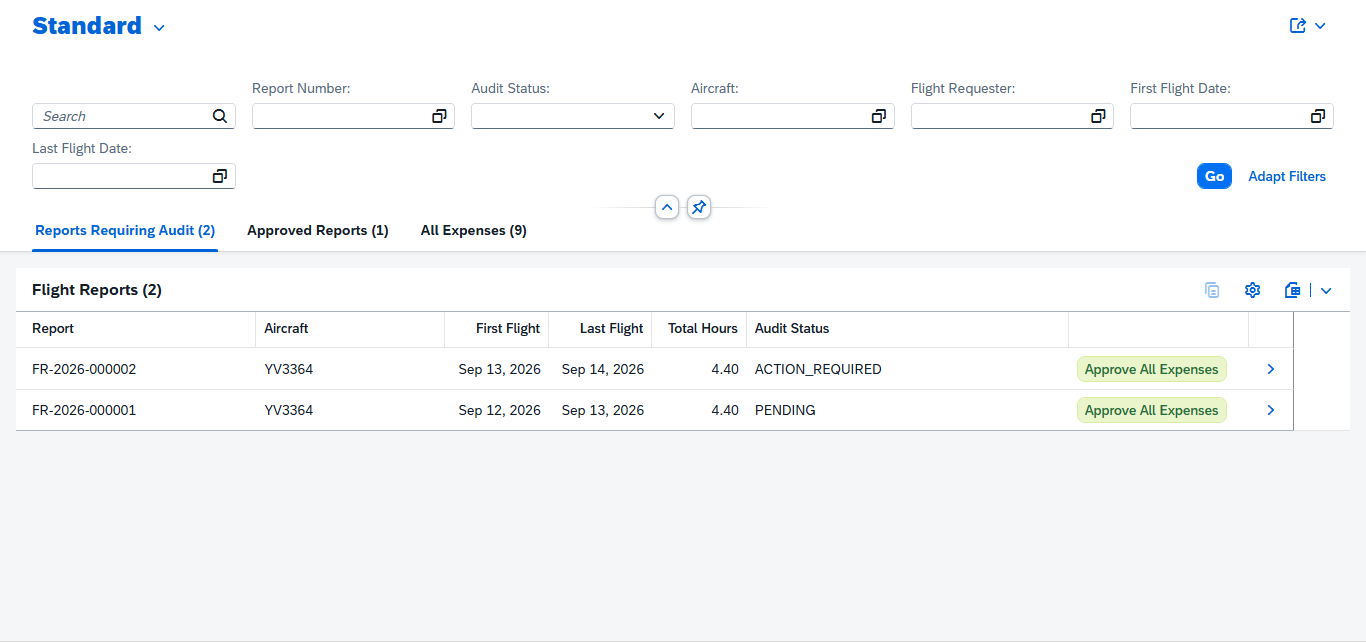
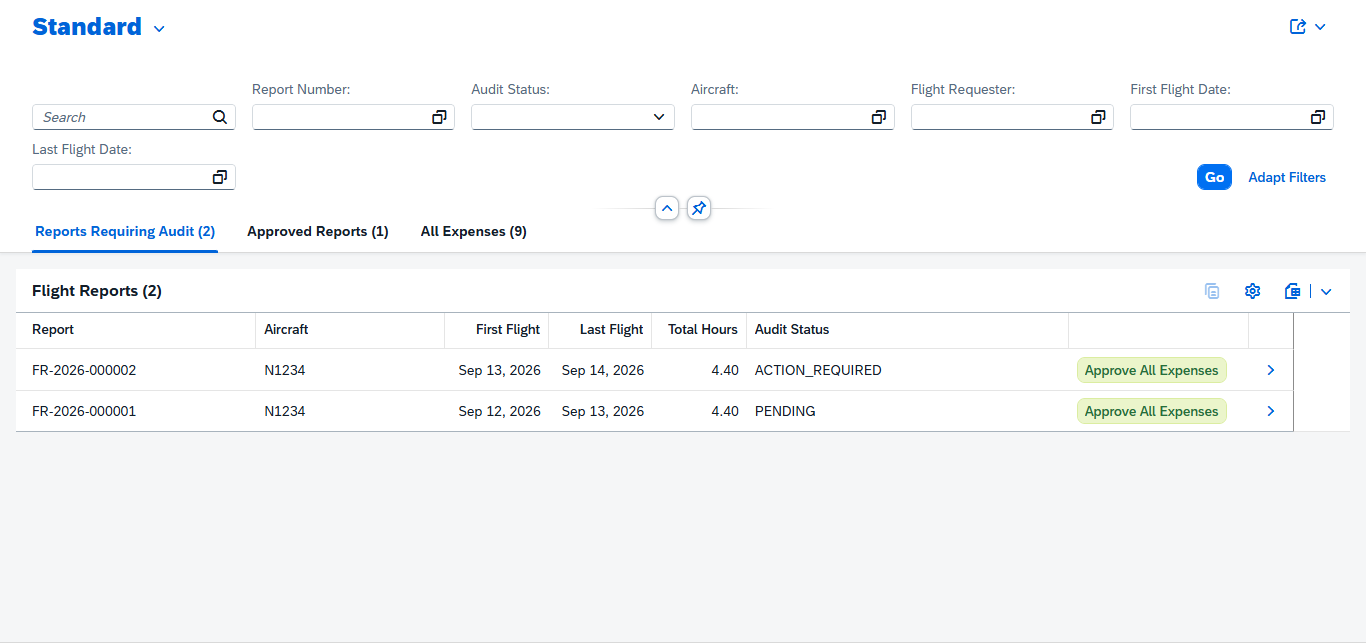
fix: update readme images with realistic synthetic data

diff --git a/test/expense-service/flight-report-lifecycle.test.ts b/test/expense-service/flight-report-lifecycle.test.ts
@@ -10,7 +10,7 @@ describe('ExpenseService flight report lifecycle', () => {
     let response = await POST(`${baseUrl}/FlightReports`, {
       ID: flightReportIDs.report,
       aircraft_ID: masterDataIDs.aircraft,
-      requesterName: 'Julián Sierra (FIBEX)',
+      requesterName: 'Alex Demo (FinFly Demo Operator)',
       status: 'DRAFT',
       notes: 'Automated test report',
     });
@@ -26,13 +26,13 @@ describe('ExpenseService flight report lifecycle', () => {
     response = await GET(`${draftUrl}?$select=displayTitle`);
 
     expect(response.status).to.equal(200);
-    expect(response.data.displayTitle).to.equal('Draft - YV3364');
+    expect(response.data.displayTitle).to.equal('Draft - N1234');
 
     response = await POST(`${draftUrl}/legs`, {
       ID: flightReportIDs.outboundLeg,
       flightDate: '2026-08-12',
-      originAirportCode: 'SVVA',
-      destinationAirportCode: 'SKRG',
+      originAirportCode: 'SVMI',
+      destinationAirportCode: 'SKBO',
       flightHours: 2.3,
     });
 
@@ -42,8 +42,8 @@ describe('ExpenseService flight report lifecycle', () => {
     response = await POST(`${draftUrl}/legs`, {
       ID: flightReportIDs.returnLeg,
       flightDate: '2026-08-15',
-      originAirportCode: 'SKRG',
-      destinationAirportCode: 'SVVA',
+      originAirportCode: 'SKBO',
+      destinationAirportCode: 'SVMI',
       flightHours: 2.2,
     });
 
@@ -72,7 +72,7 @@ describe('ExpenseService flight report lifecycle', () => {
       category_ID: masterDataIDs.fboCategory,
       expenseDate: '2026-08-12',
       description: 'FBO and ground handling',
-      supplier: 'Valencia Aviation Services',
+      supplier: 'Demo Aviation Services',
       receiptNumber: 'REC-2026-0812',
       originalAmount: 180000,
       originalCurrency_code: 'VES',
@@ -84,7 +84,7 @@ describe('ExpenseService flight report lifecycle', () => {
       ID: flightReportIDs.usdExpense,
       category_ID: masterDataIDs.fboCategory,
       expenseDate: '2026-08-14',
-      description: 'FBO Colombia',
+      description: 'Demo destination handling',
       originalAmount: 1800,
       originalCurrency_code: 'USD',
     });
@@ -134,7 +134,7 @@ describe('ExpenseService flight report lifecycle', () => {
     expect(vesExpense.leg_ID).to.equal(flightReportIDs.outboundLeg);
     expect(vesExpense.originalAmount).to.equal(180000);
     expect(vesExpense.originalCurrency_code).to.equal('VES');
-    expect(vesExpense.supplier).to.equal('Valencia Aviation Services');
+    expect(vesExpense.supplier).to.equal('Demo Aviation Services');
     expect(vesExpense.receiptNumber).to.equal('REC-2026-0812');
 
     const usdExpense = response.data.expenses.find(

diff --git a/scripts/seed-demo-data.ts b/scripts/seed-demo-data.ts
@@ -130,7 +130,7 @@ async function createScenario(demo: DemoScenario): Promise<void> {
       category_ID: masterData.fuel,
       expenseDate: demo.outboundDate,
       description: 'Jet A-1 fuel uplift',
-      supplier: 'Caracas Aviation Fuel',
+      supplier: 'Demo Fuel Services',
       receiptNumber: `DEMO-${demo.reportID.slice(7, 8)}-FUEL`,
       originalAmount: 1250,
       originalCurrency_code: 'USD',
@@ -141,7 +141,7 @@ async function createScenario(demo: DemoScenario): Promise<void> {
       category_ID: masterData.fbo,
       expenseDate: demo.outboundDate,
       description: 'FBO and ground handling services',
-      supplier: 'Destination Ground Services',
+      supplier: 'Demo Ground Handling',
       receiptNumber: `DEMO-${demo.reportID.slice(7, 8)}-FBO`,
       originalAmount: 420,
       originalCurrency_code: 'USD',
@@ -154,7 +154,7 @@ async function createScenario(demo: DemoScenario): Promise<void> {
           : masterData.hotel,
       expenseDate: demo.returnDate,
       description: 'Report-level crew expense',
-      supplier: 'Crew Services Provider',
+      supplier: 'Demo Crew Services',
       receiptNumber: `DEMO-${demo.reportID.slice(7, 8)}-CREW`,
       originalAmount: 185,
       originalCurrency_code: 'USD',

diff --git a/README.md b/README.md
@@ -41,22 +41,28 @@ The project is intentionally scoped as an MVP, but its domain and workflow are m
 
 The pilot application supports creating flight reports, maintaining flight legs and crew assignments, recording expenses, submitting reports, and correcting expenses returned by an auditor. Reports are separated into work queues so pilots can quickly identify drafts and reports requiring attention.
 
-The overview above shows the pilot's role-specific work queues for reports that need attention, are pending audit, or have been approved.
+The overview above shows the pilot's role-specific work queues for reports that need attention, are pending audit, or have been approved. A submitted report brings together its workflow state, calculated trip summary, and the aircraft-utilization snapshot produced when the report was posted.
+
+![Submitted pilot report with trip summary and aircraft utilization](docs/images/pilot-flight-report-submitted-details-1.png)
+
+The same report keeps its flight legs, assigned crew, and auditable expenses together in one object page.
+
+![Submitted pilot report with flight legs, crew, and expenses](docs/images/pilot-flight-report-submitted-details-2.png)
 
 ### Audit application
 
 The audit application presents submitted reports and their expenses to authorized reviewers. Auditors can approve individual expenses, approve all eligible expenses, or request a correction with a reason. The report remains actionable until all returned expenses have been resubmitted.
 
-![Auditor report queues with bulk approval actions](docs/images/auditor-main-view.png)
+![Auditor work queues with per-report bulk approval actions](docs/images/auditor-main-view.png)
 
-![Expense review showing approval and correction actions](docs/images/auditor-flight-report-expenses.png)
+![Auditor expense review with approval and correction actions](docs/images/auditor-flight-report-expenses.png)
 
 <details>
 <summary>More workflow screenshots</summary>
 
 ### Report details and calculated operational totals
 
-![Submitted report details and calculated totals](docs/images/auditor-flight-report-object-details.png)
+![Submitted report details and calculated operational totals](docs/images/auditor-flight-report-details.png)
 
 ### Flight legs and assigned crew
 
